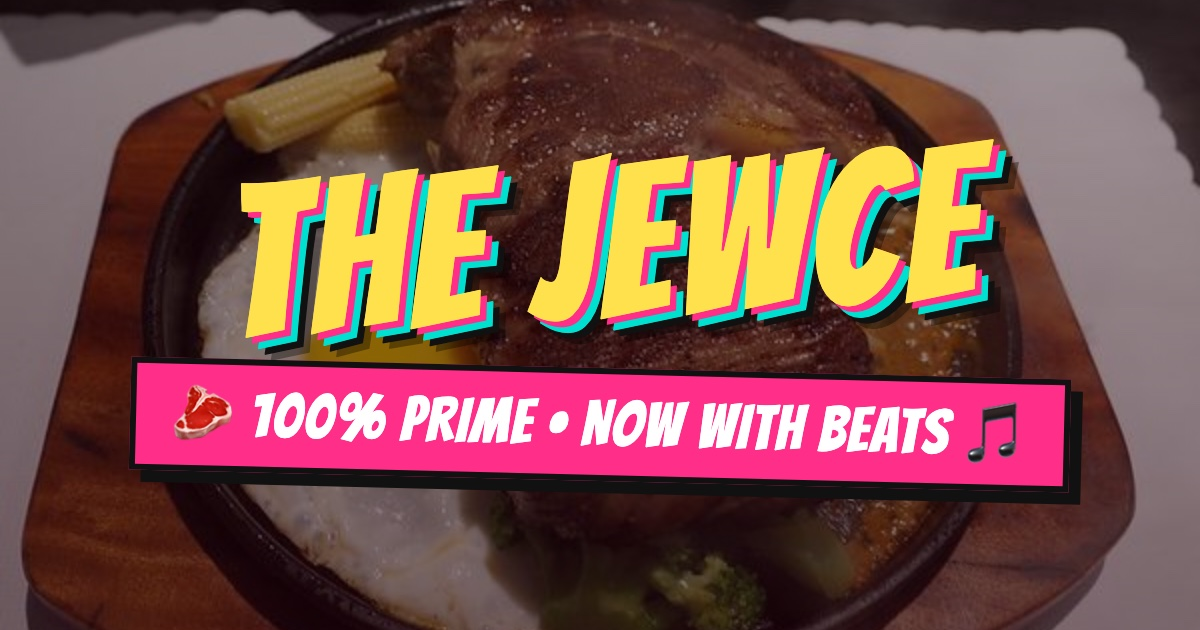
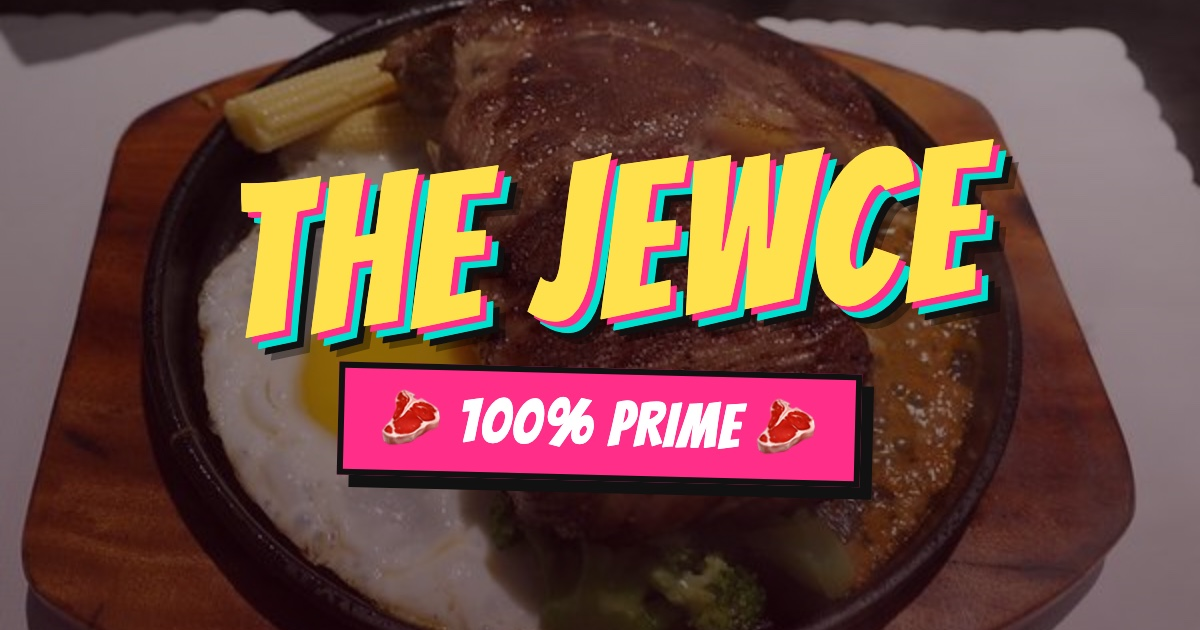
Tap-to-play Play Video button (sound on click); tagline -> 100% PRIME only

Changed region(s): [[0.0925, 0.5429, 0.925, 0.8143]]

diff --git a/index.html b/index.html
@@ -101,15 +101,33 @@
         42px 42px 0 0 #111;
     }
 
-    .hint {
-      margin: 0.6rem 0 0;
-      font-family: "Permanent Marker", cursive;
-      font-size: clamp(1rem, 4vw, 1.4rem);
-      color: #ffe14d;
-      text-shadow: 2px 2px 0 #111;
-      animation: blink 1.4s steps(1) infinite;
+    .player { position: relative; display: inline-block; line-height: 0; }
+
+    .play-btn {
+      position: absolute;
+      top: 50%;
+      left: 50%;
+      transform: translate(-50%, -50%) rotate(-3deg);
+      font-family: "Bangers", cursive;
+      font-size: clamp(1.5rem, 7vw, 2.6rem);
+      letter-spacing: 2px;
+      color: #fff;
+      background: #ff2e88;
+      padding: 0.45em 0.95em;
+      border: 5px solid #111;
+      border-radius: 8px;
+      box-shadow: 8px 8px 0 #111;
+      cursor: pointer;
+      white-space: nowrap;
+      z-index: 2;
+      animation: pulse 1.3s ease-in-out infinite;
     }
-    @keyframes blink { 50% { opacity: 0.35; } }
+    .play-btn:hover { background: #ff4f9c; }
+    .play-btn:active { box-shadow: 3px 3px 0 #111; }
+    @keyframes pulse {
+      0%,100% { transform: translate(-50%, -50%) rotate(-3deg) scale(1); }
+      50%     { transform: translate(-50%, -50%) rotate(-3deg) scale(1.07); }
+    }
 
     .foot {
       font-family: "Bangers", cursive;
@@ -122,38 +140,35 @@
 </head>
 <body>
   <h1>The&nbsp;Jewce</h1>
-  <p class="tag">🥩 100% PRIME &nbsp;•&nbsp; NOW WITH BEATS 🎵</p>
+  <p class="tag">🥩 100% PRIME 🥩</p>
 
-  <video id="jewce-video" src="jewce.mp4" poster="poster.jpg"
-         controls autoplay muted loop playsinline preload="metadata"></video>
-  <p class="hint" id="sound-hint">🔊 tap anywhere for sound</p>
+  <div class="player">
+    <video id="jewce-video" src="jewce.mp4" poster="poster.jpg"
+           controls loop playsinline preload="metadata"></video>
+    <button class="play-btn" id="play-btn" type="button">▶ PLAY VIDEO</button>
+  </div>
 
   <p class="foot">jewce.com</p>
 
   <script>
-    // Browsers only allow autoplay when muted. So we start muted, then unmute
-    // the instant the visitor interacts (tap / click / scroll / key) — the
-    // first user gesture lets us turn the sound on with the song playing.
+    // iOS won't play audio without a user gesture. Starting playback from the
+    // "Play Video" button click is that gesture — so the video plays WITH sound.
     (function () {
       var v = document.getElementById('jewce-video');
-      var hint = document.getElementById('sound-hint');
-      var events = ['pointerdown', 'touchstart', 'click', 'keydown', 'scroll'];
-      function unmute() {
-        if (!v) return;
+      var btn = document.getElementById('play-btn');
+      if (!v || !btn) return;
+      btn.addEventListener('click', function () {
         v.muted = false;
         v.volume = 1;
         var p = v.play();
         if (p && p.catch) p.catch(function () {});
-        if (hint) hint.style.display = 'none';
-        events.forEach(function (e) { window.removeEventListener(e, unmute); });
-      }
-      events.forEach(function (e) {
-        window.addEventListener(e, unmute, { once: true, passive: true });
+        btn.style.display = 'none';
       });
-      // If the visitor unmutes via the player's own controls, drop the hint too.
-      if (v) v.addEventListener('volumechange', function () {
-        if (!v.muted && hint) hint.style.display = 'none';
+      // If the visitor pauses with the native controls, bring the button back.
+      v.addEventListener('pause', function () {
+        if (!v.ended) btn.style.display = '';
       });
+      v.addEventListener('play', function () { btn.style.display = 'none'; });
     })();
   </script>
 </body>
